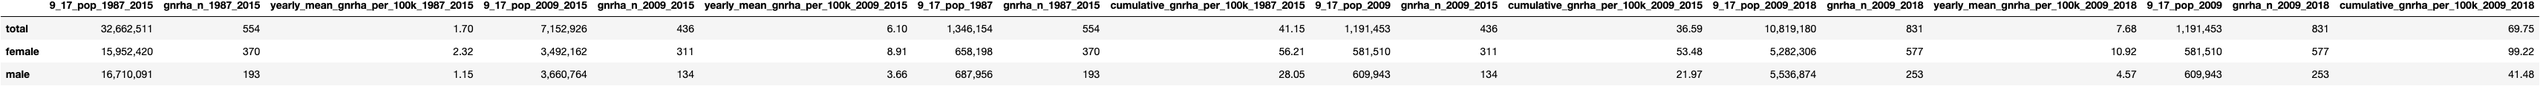
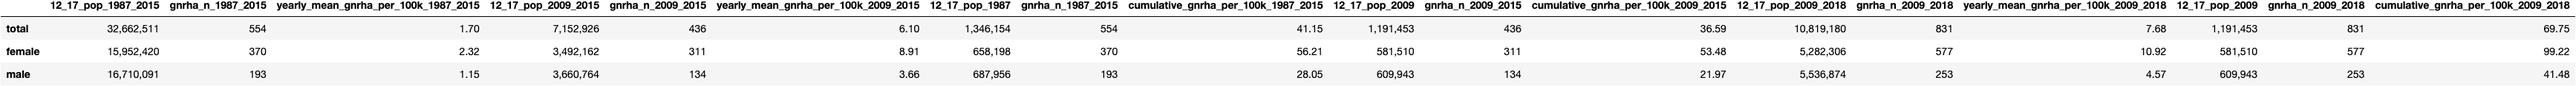
nld-fix

diff --git a/nld_gnrha.py b/nld_gnrha.py
@@ -98,7 +98,7 @@ for r in year_ranges:
     row["total"] = total_sum
     row["female"] = f_sum
     row["male"] = m_sum
-    row_name = f"9_17_pop_{r[0]}_{r[1]}" if len(years) > 1 else f"9_17_pop_{r[0]}"
+    row_name = f"12_17_pop_{r[0]}_{r[1]}" if len(years) > 1 else f"12_17_pop_{r[0]}"
     index.append(row_name)
     stats.append(row)
     formatter[row_name] = "{:,.0f}"
@@ -134,9 +134,13 @@ for r in year_ranges:
     formatter[rate_name] = "{:.2f}"
 
 
+
 df = pd.DataFrame(stats, index=index)
 df = df.transpose()
 df.to_csv(f"./results/{name}.csv", float_format="%.2f")
+
+
+print(df)
 
 styled = df.style.format(formatter=formatter)
 dfi.export(styled, f"results/{name}.png")
